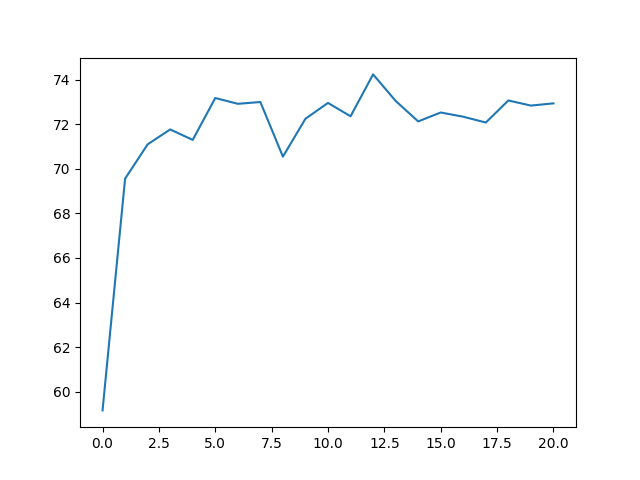
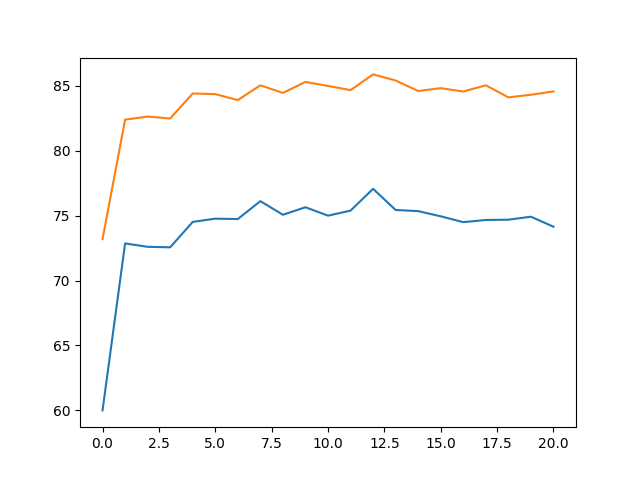
fixed board model

diff --git a/main.py b/main.py
@@ -3,6 +3,7 @@ from population import Population
 import numpy as np
 from tqdm import trange
 import matplotlib.pyplot as plt
+from multiprocessing import Process
 
 POP_SIZE = 100
 WEIGHTS = [-1, 0, 1] # [loss, tie, win]
@@ -25,14 +26,15 @@ def play_game(player1, player2):
 	players = [player1, player2]
 	turn = 0;
 	board = Board()
-
 	while not board.is_over():
-		weights = players[turn % 2](board.state)
-		
-		best_move = best_valid_move(board, weights)
+		player = (((turn + 1) % 2) * 2) - 1 ## player = 1 for player 1, -1 for player 2
+		bd = board.state[:]
+		if turn % 2 == 1:
+			bd = [x * -1 for x in bd]
 
-		board.apply_move((((turn + 1) % 2) * 2) - 1, best_move)
-	
+		weights = players[turn % 2](bd) ## flips the board for player two
+		best_move = best_valid_move(board, weights)
+		board.apply_move(player, best_move)
 		turn += 1
 
 	res = board.winner()
@@ -47,11 +49,11 @@ def set_player_results(player, res):
 		player.winner = (res == 1)
 	'''
 	if res == -1:
-		player.score += WEIGHTS[0]
+		player.update_score(WEIGHTS[0])
 	elif res == 0:
-		player.score += WEIGHTS[1]
+		player.update_score(WEIGHTS[1])
 	else:
-		player.score += WEIGHTS[2]
+		player.update_score(WEIGHTS[2])
 
 def elim_pop_to_winner(pop):
 	pair = [pop.gen.pop(), pop.gen.pop()]
@@ -68,20 +70,41 @@ def elim_pop_to_winner(pop):
 
 	return pair[0]
 
+def gen_pairs_play(pop):
+	for pair in pop.get_pairs():
+			 play_game(pair[0], pair[1])
 
-def unparallized_train(output_fn, epoch=1001):
+
+def unparallized_train(output_fn, epoch=1001, games_per_gen=5):
 	pop = Population()
-	for e in trange(epoch):
 
+	breed = []
+	game = []
+	pop1 = []
+
+
+	for e in trange(epoch):
 		pop.breed()
 
 		if e % 50 == 0:
 			EVAL_VS_FIRST_GEN.append(pop.eval())
 
-		for pair in pop.get_pairs():
-			play_game(pair[0], pair[1])
+#		processes = []
+
+		for i in range(games_per_gen):
+#			p = Process(target=gen_pairs_play, args=(pop,))
+#			p.start()
+#			processes.append(p)
+			gen_pairs_play(pop)
+
+#		for p in processes:
+#			p.join()
+
+
+
 
 		pop.cull()
+
 	#elim_pop_to_winner(pop).save_model(output_fn)
 
 
@@ -90,8 +113,14 @@ if __name__ == '__main__':
 
 	X = range(len(EVAL_VS_FIRST_GEN))
 	Y = EVAL_VS_FIRST_GEN
+	Y_win = []
+	Y_wintie = []
+	for i in Y:
+		Y_win.append(i[0])
+		Y_wintie.append(i[1])
 
-	plt.plot(X, Y)
+	plt.plot(X, Y_win)
+	plt.plot(X, Y_wintie)
 	plt.savefig("wins_vs_iteration")
 	plt.show()
 

diff --git a/population.py b/population.py
@@ -17,6 +17,8 @@ class Population():
                 list[list[Player]] : The current generation in pairwise tuples.
 
         """
+        np.random.shuffle(self.gen)
+
         arr = []
         for i in range(0, len(self.gen), 2):
             arr.append((self.gen[i], self.gen[i + 1]))
@@ -99,7 +101,12 @@ class Population():
             board = Board()
 
             while not board.is_over():
-                weights = players[turn % 2](board.state)
+                player = (((turn + 1) % 2) * 2) - 1 ## player = 1 for player 1, -1 for player 2
+                bd = board.state[:]
+                if turn % 2 == 1:
+                    bd = [x * -1 for x in bd]
+
+                weights = players[turn % 2](bd)
                 
                 best_move = best_valid_move(board, weights)
 
@@ -107,14 +114,16 @@ class Population():
             
                 turn += 1
 
-            return 1 if board.winner() == 1 else 0 # 1 for player1 win, 0 otherwise
+            return board.winner() # 1 for player1 win, 0 for tie, -1 for player2 win
 
-        win_percent = 0
+        wtl = [0, 0, 0] # [win, tie, loss]
+        # win_percent = 0
         for player in self.gen:
             for i in self.first_gen:
-                win_percent += eval_game(player, i)
-        win_percent /= (len(self.gen) ** 2)
-        return win_percent * 100
+                wtl[(eval_game(player, i) * -1) + 1] += 1
+        # win_percent /= (len(self.gen) ** 2)
+        total = wtl[0] + wtl[1] + wtl[2]
+        return [100.0 * wtl[0] / total, 100.0 * (wtl[0] + wtl[1]) / total] # [win rate, tie + win rate]               # win_percent * 100
 
 
 

diff --git a/nn.py b/nn.py
@@ -1,6 +1,7 @@
 import torch
 import torch.nn as nn
 import numpy as np
+from multiprocessing import Lock
 
 class Player(nn.Module):
     """ Feed forward player module - default dimensions such that
@@ -20,6 +21,12 @@ class Player(nn.Module):
         self.fc2 = nn.Linear(fc1_dim, fc2_dim)
         self.fc3 = nn.Linear(fc2_dim, out_dim)
         self.score = 0
+        self.lock = Lock()
+
+    def update_score(self, update):
+        self.lock.acquire()
+        self.score += update
+        self.lock.release()
 
     def forward(self, x):
         """ Completes 1 forward pass through this network.
@@ -31,6 +38,7 @@ class Player(nn.Module):
                 list[float]: Transformed input of dimension 'out_dim'.
 
         """
+
         x = torch.tensor(x).float()
         y = self.fc1(x)
         y = torch.tanh(y)
@@ -38,6 +46,7 @@ class Player(nn.Module):
         y = torch.tanh(y)
         y = self.fc3(y)
         y = torch.softmax(y, dim=0)
+
         return y.data.numpy()
 
     def save_model(self, path):
